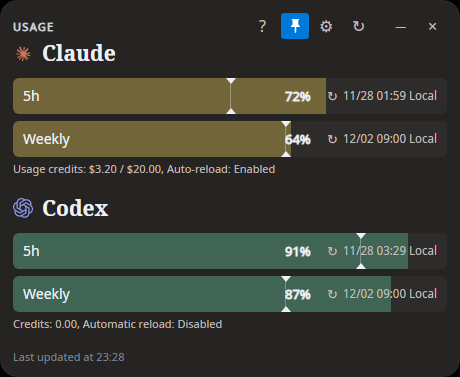
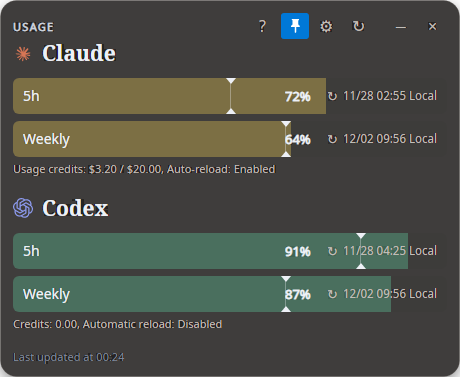
fix: capture panel screenshots with transparent corners
- The headless platform has no window transparency, so screenshots showed
  black behind the panel's rounded corners and shadow. Hide the fallback
  border and render the panel to an alpha bitmap.
- Recapture the panel screenshots in all three languages.

diff --git a/tools/ScreenshotCapture/Program.cs b/tools/ScreenshotCapture/Program.cs
@@ -66,7 +66,7 @@ foreach (var (design, overlayFilename) in new[]
     window.SetStatus(updated, null, UsageProvider.Claude);
     window.SetStatus(updated, null, UsageProvider.Codex);
     window.Show();
-    Capture(window, overlayFilename);
+    Capture(window, overlayFilename, transparent: true);
     window.Close();
     if (design != OverlayDesignOptions.Latest)
         continue;
@@ -88,7 +88,7 @@ foreach (var (design, overlayFilename) in new[]
     settings.Close();
 }
 
-void Capture(Window target, string filename)
+void Capture(Window target, string filename, bool transparent = false)
 {
     // Modal controls may need another layout pass after the window opens.
     for (var pass = 0; pass < 3; pass++)
@@ -96,9 +96,28 @@ void Capture(Window target, string filename)
         Dispatcher.UIThread.RunJobs();
         AvaloniaHeadlessPlatform.ForceRenderTimerTick();
     }
-    using var frame = target.CaptureRenderedFrame()
-        ?? throw new InvalidOperationException("Screenshot rendering failed.");
+    // The headless platform has no window transparency, so the window template paints a
+    // black fallback behind the overlay's rounded corners and shadow. Hide it and render to
+    // an alpha bitmap, since the headless frame buffer is opaque.
+    if (transparent)
+    {
+        foreach (var fallback in target.GetVisualDescendants().OfType<Border>()
+            .Where(border => border.Name == "PART_TransparencyFallback"))
+            fallback.IsVisible = false;
+    }
+    using Bitmap frame = transparent
+        ? RenderTransparent(target)
+        : target.CaptureRenderedFrame()
+            ?? throw new InvalidOperationException("Screenshot rendering failed.");
     using var output = File.Create(Path.Combine(args[0], filename));
     frame.Save(output, PngBitmapEncoderOptions.Default);
     Console.WriteLine($"Captured {filename} ({frame.PixelSize})");
+}
+
+static RenderTargetBitmap RenderTransparent(Window target)
+{
+    var size = new PixelSize((int)Math.Ceiling(target.Bounds.Width), (int)Math.Ceiling(target.Bounds.Height));
+    var bitmap = new RenderTargetBitmap(size);
+    bitmap.Render(target);
+    return bitmap;
 }
